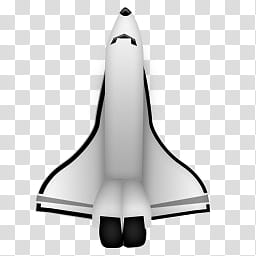
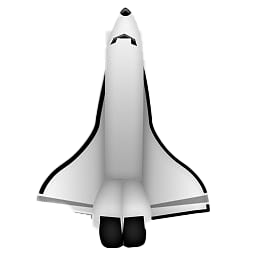
hi

diff --git a/GalaxyRush/Window1.xaml b/GalaxyRush/Window1.xaml
@@ -10,9 +10,9 @@
     Height="450"
     WindowStartupLocation="CenterScreen"
     mc:Ignorable="d">
-    <!--<Window.Background>
+    <Window.Background>
         <ImageBrush ImageSource="\Images\fond_espace.jpg"  Stretch="Fill"/>
-    </Window.Background>-->
+    </Window.Background>
     <Grid>
         <!--<Image Width="800" Height="450" Source="/Images/fond_espace.jpg"/>-->
         <Image Width="800" Height="450">

diff --git a/GalaxyRush/App.xaml b/GalaxyRush/App.xaml
@@ -3,6 +3,6 @@
     xmlns="http://schemas.microsoft.com/winfx/2006/xaml/presentation"
     xmlns:x="http://schemas.microsoft.com/winfx/2006/xaml"
     xmlns:local="clr-namespace:GalaxyRush"
-    StartupUri="MainWindow.xaml">
+    StartupUri="Window1.xaml">
     <Application.Resources />
 </Application>

diff --git a/GalaxyRush/MainWindow.xaml.cs b/GalaxyRush/MainWindow.xaml.cs
@@ -30,7 +30,7 @@ namespace GalaxyRush
             // lancement du timer
             dispatcherTimer.Start();
             // chargement de l’image du joueur 
-            SkinJoueur.ImageSource = new BitmapImage(new Uri(AppDomain.CurrentDomain.BaseDirectory + "images/invader.png"));
+            SkinJoueur.ImageSource = new BitmapImage(new Uri(AppDomain.CurrentDomain.BaseDirectory + "images/fusée.png"));
             // assignement de skin du joueur au rectangle associé
             joueur.Fill = SkinJoueur;
         }
